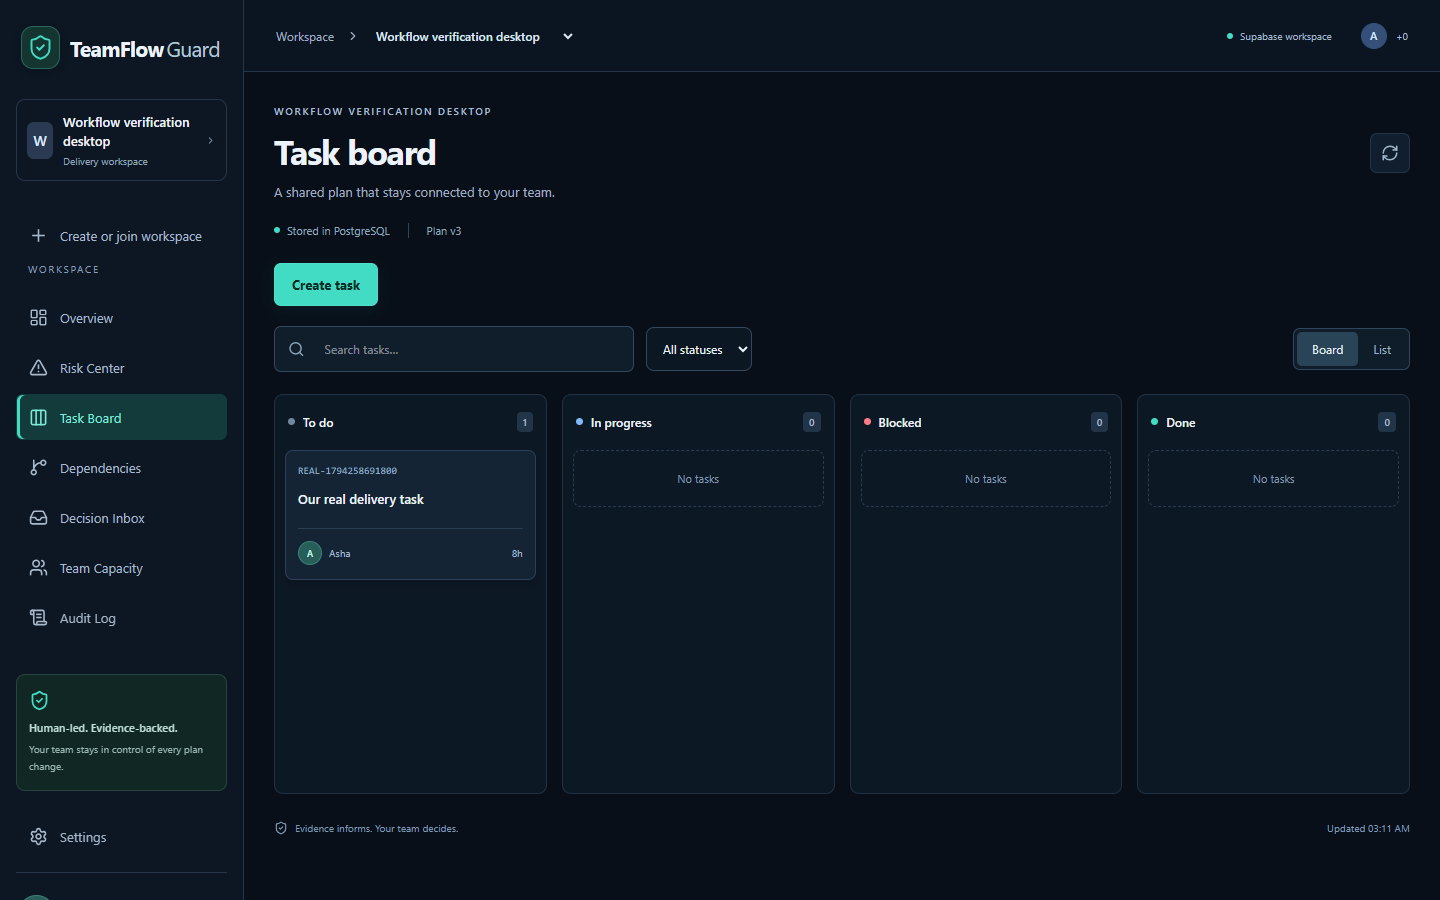
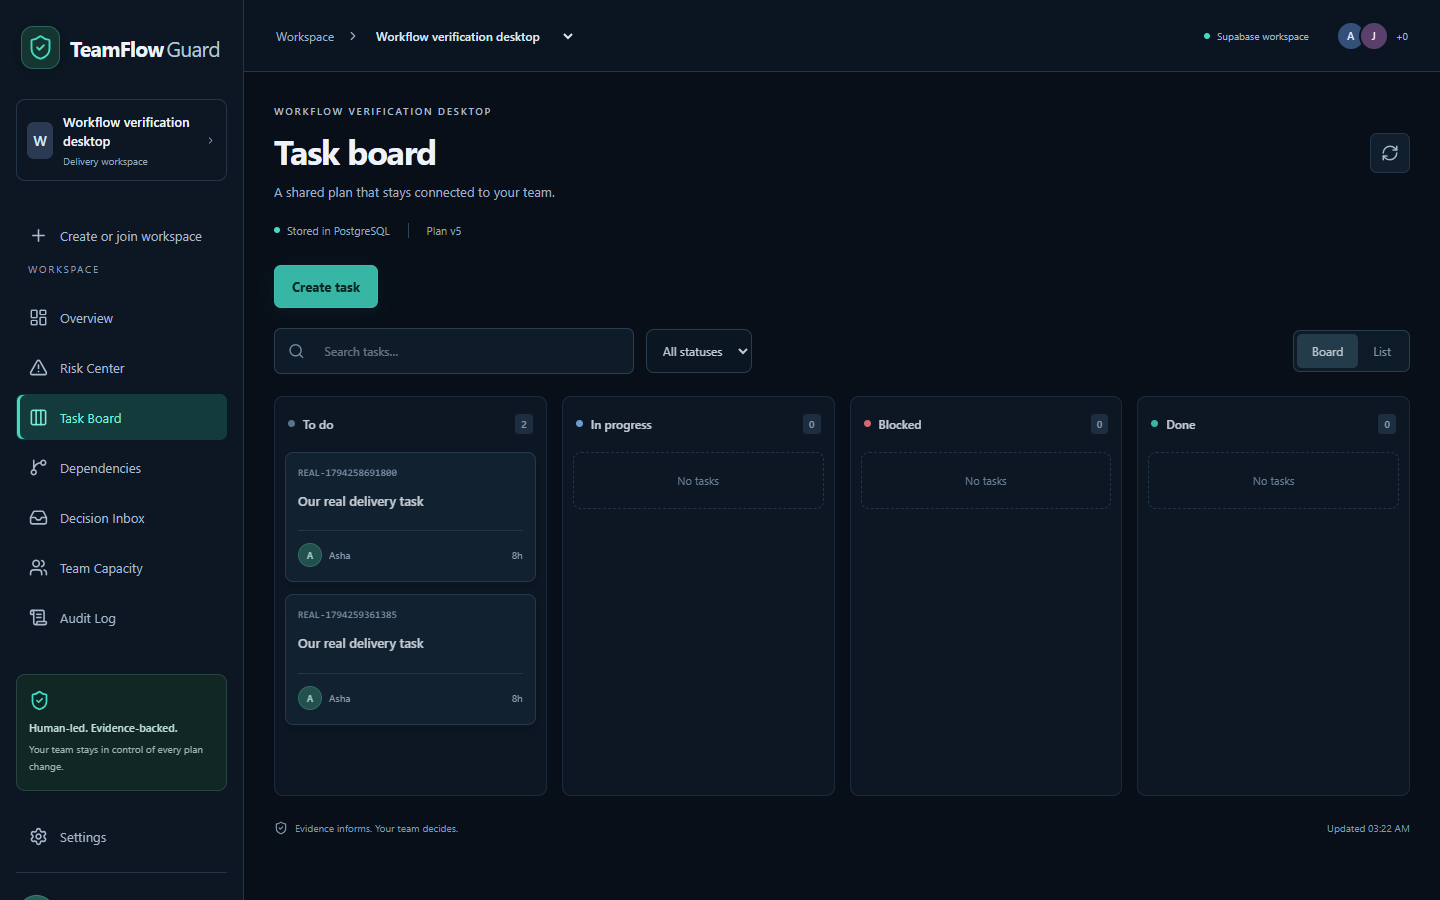
Record verified hosted workspace flows and onboarding instructions

diff --git a/tests/workspaces.spec.ts b/tests/workspaces.spec.ts
@@ -3,9 +3,13 @@ import {readFileSync} from 'node:fs';
 const fixture=JSON.parse(readFileSync('.local/hosted-demo.json','utf8'));
 test('create real workspace, persist tasks/settings, invite teammate and enforce access',async({page},info)=>{
  test.setTimeout(240_000);
+ page.setDefaultTimeout(30_000);
+ page.setDefaultNavigationTimeout(45_000);
+ console.info('Workspace flow: opening deployment');
  if(process.env.TEAMFLOW_VERCEL_SHARE_FILE)await page.goto(JSON.parse(readFileSync(process.env.TEAMFLOW_VERCEL_SHARE_FILE,'utf8')).url);
  async function login(email:string){await page.goto('/overview');await page.getByLabel('Email address').fill(email);await page.getByLabel('Password',{exact:true}).fill(fixture.password);await page.getByRole('button',{name:'Sign in',exact:true}).click();await expect(page.getByRole('heading',{name:'Delivery overview'})).toBeVisible({timeout:60000});}
  await login('asha@teamflow.demo');
+ console.info('Workspace flow: authenticated');
  const origin=new URL(page.url()).origin;
  const workspaceName=`Workflow verification ${info.project.name}`;
  const projects=await (await page.request.get('/api/projects')).json();
@@ -22,8 +26,9 @@ test('create real workspace, persist tasks/settings, invite teammate and enforce
  await expect(page.getByText('DEMO WORKSPACE',{exact:true})).toHaveCount(0);
  await expect(page.getByRole('button',{name:'Replay demo event'})).toHaveCount(0);
  await page.goto('/settings');
+ console.info('Workspace flow: editing settings');
  await expect(page.getByLabel('Workspace name',{exact:true})).toHaveValue(workspaceName);
- await page.getByLabel('Description',{exact:true}).fill('Real editable workspace, verified through the browser.');
+ await page.getByRole('textbox',{name:'Description',exact:true}).fill('Real editable workspace, verified through the browser.');
  await page.getByLabel('PR review alert after (hours)').fill('36');
  await page.getByRole('button',{name:'Save workspace settings',exact:true}).click();
  await expect(page.getByText('Workspace settings saved. Risk rules use these values immediately.')).toBeVisible();

diff --git a/PHASE_PROGRESS.md b/PHASE_PROGRESS.md
@@ -126,4 +126,4 @@ Implemented empty workspace creation, email-bound one-time invitation links (has
 
 The hosted workspace_management migration is applied. 45 disposable SQL checks, 75 unit tests, lint/typecheck and production build pass. Desktop/mobile browser flows passed against hosted Supabase: create workspace, persist settings/tasks, accept viewer invitation, and deny viewer writes. Fixed the mobile drawer remaining open after setup. No test emails were sent; invitation tokens remained private. Security advisor reports the existing leaked-password-protection warning only.
 
-Hosted deployment verification is pending. Registration/confirmation code is implemented, but actual email delivery and redirect allowlists are unverified: the connector lacks Auth configuration tools and browser setup failed. Gemini credentials, GitHub ingestion and history pagination remain outstanding.
+Hosted deployment e14c8b8 is READY on https://teamflow-guard.vercel.app. Desktop/mobile workspace flows passed on the hosted app (2 tests, 43.9s), including saved settings/tasks, invitation acceptance, and denied viewer writes. CI run 42700753408 passed all jobs. The initial hosted test timed out on an exact label locator for a prefilled textarea; using its accessible textbox name resolved the test issue. No deployed application error/fatal log entries were observed in the checked window. Registration/confirmation code is implemented, but actual email delivery and redirect allowlists are unverified: the connector lacks Auth configuration tools and browser setup failed. Gemini credentials, GitHub ingestion and history pagination remain outstanding.

diff --git a/README.md b/README.md
@@ -4,6 +4,8 @@ The current release uses Next.js route handlers, Supabase Auth/Postgres with RLS
 
 ## Current release
 
+After signing in, choose **Create or join workspace** to start an empty workspace or accept an email-bound invitation link. Settings lets owners/managers rename the workspace and configure the tracked branch and PR-review threshold; owners can manage teammate roles. Tasks and decisions persist, and the selected workspace survives navigation/reload. Real workspaces have no seeded counts or demo replay controls.
+
 - Run `npm ci`, `npm --prefix web ci`, copy `web/.env.example` to `web/.env.local`, configure Supabase, then `npm run dev`.
 - Open http://localhost:3000. Hosted demo accounts: `asha@teamflow.demo` (owner) and `jordan@teamflow.demo` (viewer). Their separate, generated password is stored only in `.local/HOSTED_DEMO_LOGIN.txt`.
 - The six-person Checkout Launch workspace is fictional and visibly labeled. GitHub ingestion is not connected in this migrated release.
